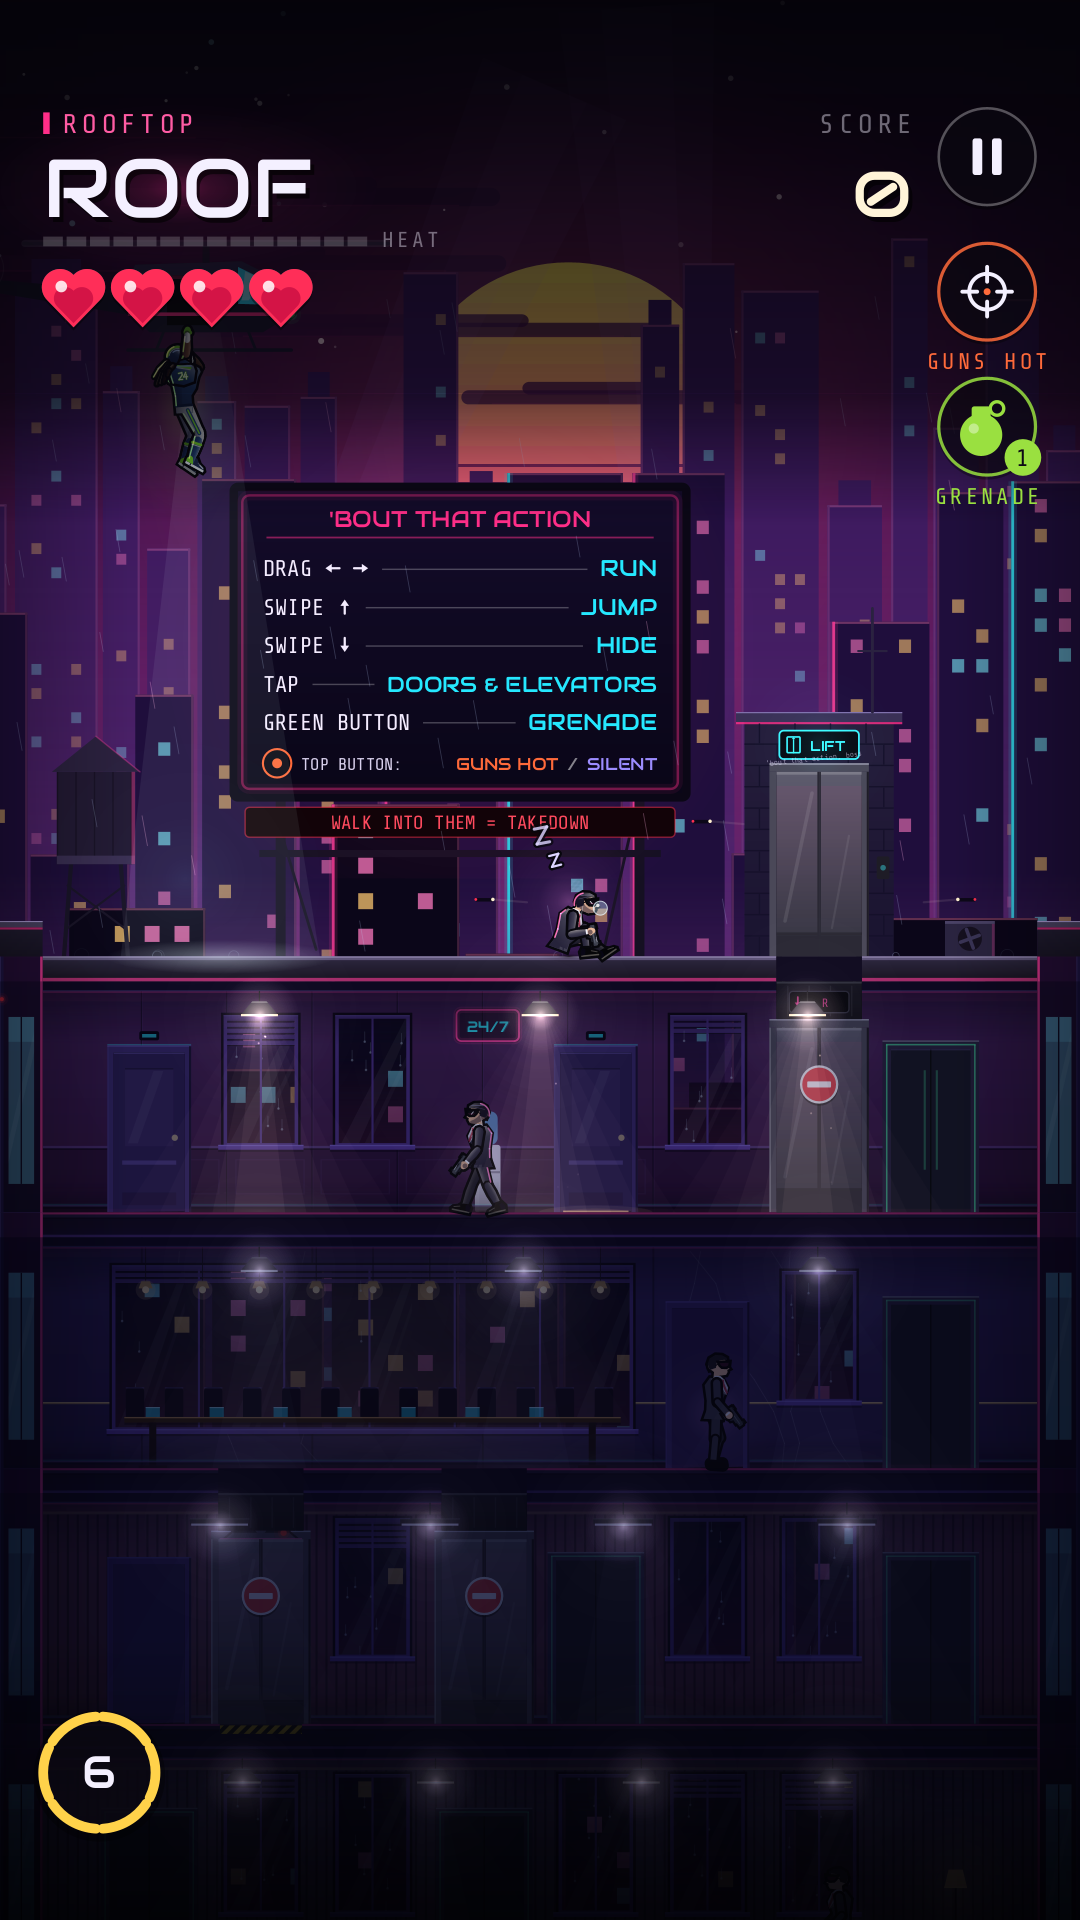
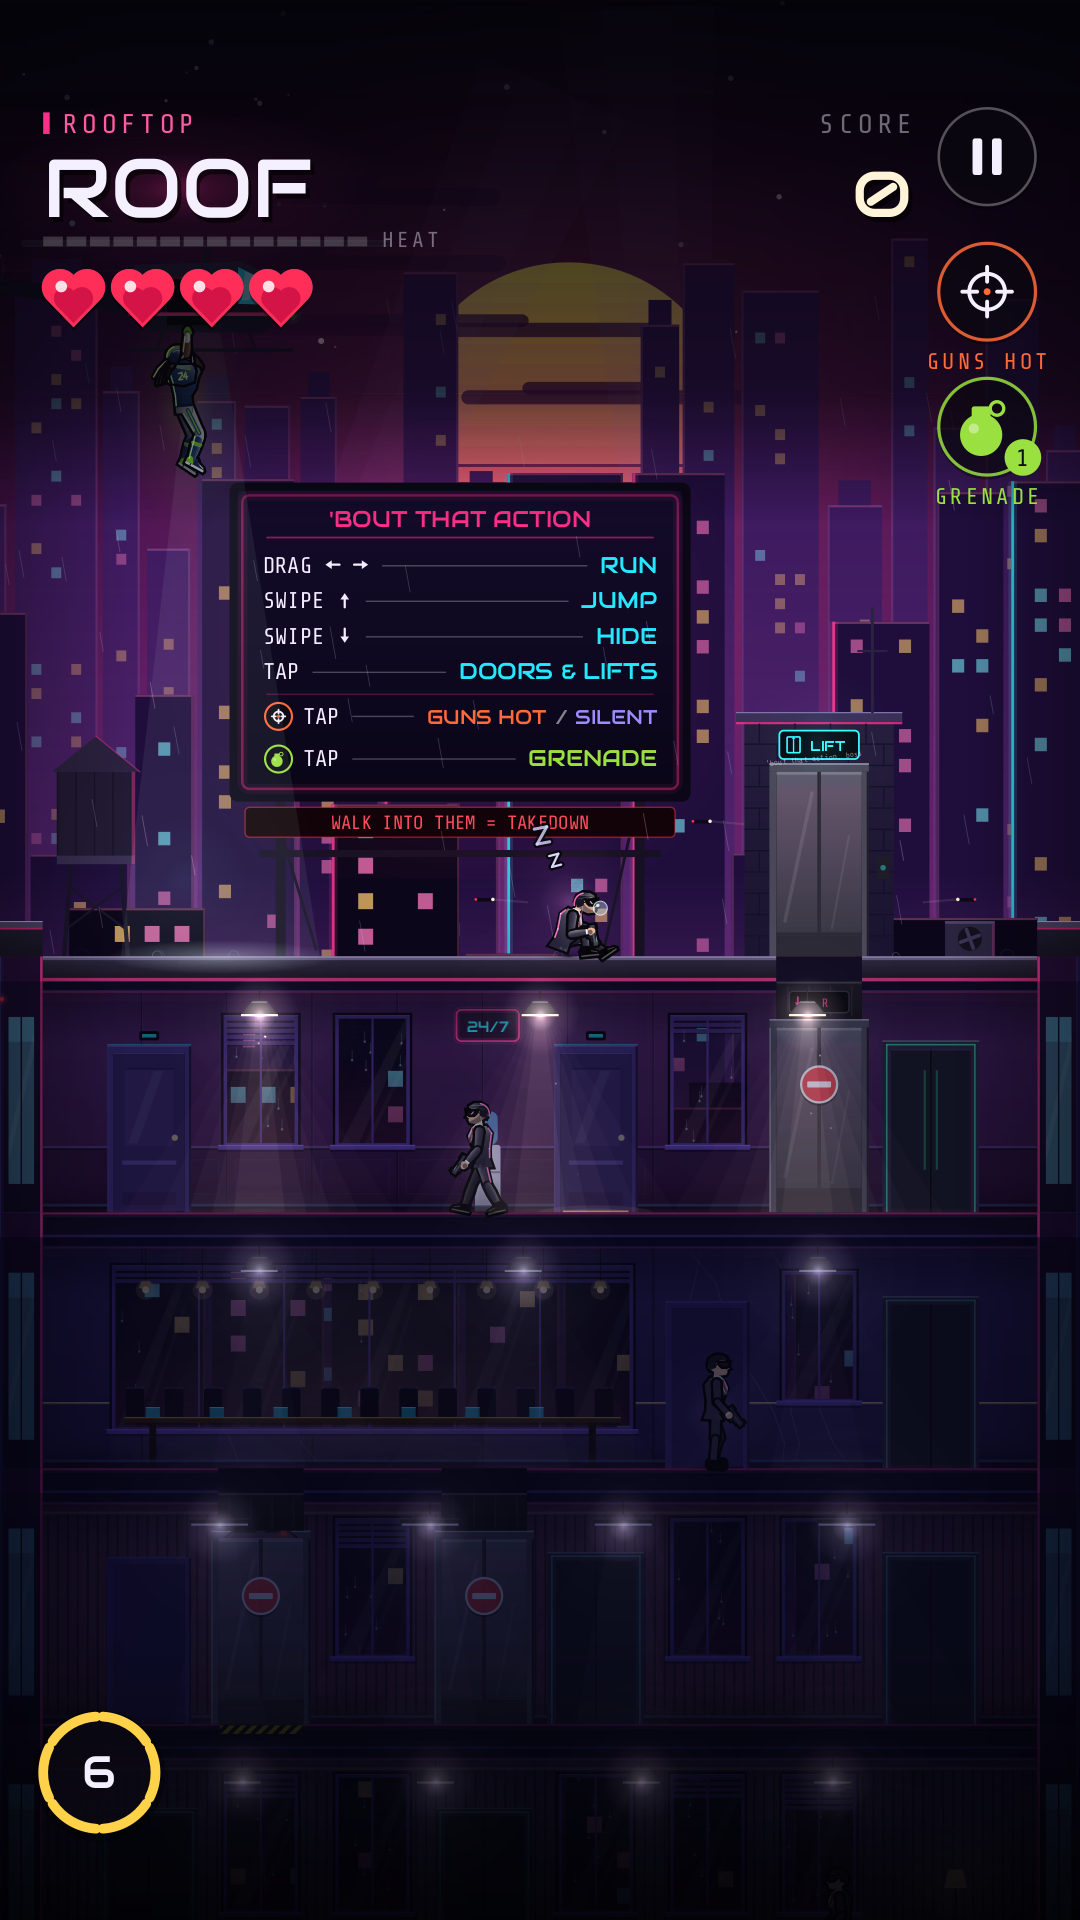
Play polish: fresh store screenshots, specific What's new, README touch-ups (#23)
* Store screenshots: re-render with the latest look

Phone, 7-inch and 10-inch sets, same eight scenes. Picks up the one
GUNS HOT/SILENT billboard row, the Void neon pool and the current
STASH card. Feature graphic and icon are unchanged and still current.

* README: Back button, and the tests behind seen hiding and jumps

* What's new: say what changed since the last Play build

---------

Changed region(s): [[0.2444, 0.2812, 0.6111, 0.4062]]

diff --git a/README.md b/README.md
@@ -270,7 +270,8 @@ tablets and unfolded foldables too; a window that still isn't tall enough (a
 desktop or split-screen window) plays in a centred portrait column. A run pauses
 itself when the window loses focus (the notification shade, the other app in
 split screen), when a call or another app takes the audio, and when headphones
-are unplugged. Phones whose motor can't play crisp haptic primitives get the
+are unplugged. Back pauses a run (and resumes it from the pause menu); on the
+title it leaves the game. Phones whose motor can't play crisp haptic primitives get the
 closest standard click instead.
 
 ## Build and test
@@ -296,12 +297,13 @@ Kotlin behind small interfaces, so it's tested on the JVM:
 - `HeroTest`: every hero trait and every hero perk, and that a STASH only
   ever offers a hero their own three.
 - `StealthAndEventsTest`: napping guards, the box double-take and the kick,
-  GHOST, special floors, the arrival grace, coach tips, the run report.
+  guards who see you hide and come find you, locked stashes, GHOST, special
+  floors, the arrival grace, coach tips, the run report.
 - `LevelGenTest`: determinism, a reachable ride down from every hallway on
   24,000 floors, rides arriving in hallway A, passage pairs, door spacing,
   shaft consistency, zone order, the heat curve.
 - `GestureInputTest`: taps (never grenades), flicks mid-run, instant reversal,
-  two-thumb play.
+  two-thumb play, run takeovers, and jumps that never flip the run.
 - `BotPlaythroughTest`: an autopilot plays full runs on every preset in both
   modes and prints a balance report (floors, seconds and encounters per
   floor, deaths; every hero on AGENT, so no hero runs away with it) and a pacing report (seconds per floor and hallway,
